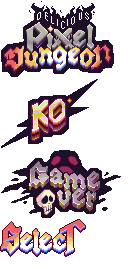
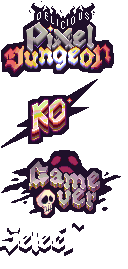
Selection screen UI update

Changed region(s): [[0.0, 0.803, 0.6875, 0.9517]]

diff --git a/core/src/main/java/com/watabou/pixeldungeon/scenes/StartScene.java b/core/src/main/java/com/watabou/pixeldungeon/scenes/StartScene.java
@@ -78,6 +78,7 @@ public class StartScene extends PixelScene {
 	private Group unlock;
 	public static HeroClass curClass;
 	public Image splash;
+	BitmapText heroNameText = PixelScene.createText(9 );
 
 	@Override
 	public void create() {
@@ -106,12 +107,12 @@ public class StartScene extends PixelScene {
 
 		Image title = BannerSprites.get(Type.SELECT_YOUR_HERO);
 		title.x = align((w - title.width()) / 2);
-		title.y = align(12);
+		title.y = align(4);
 		add(title);
 
 		splash = new Image();
-		splash.x = align((w - title.width()) / 2);
-		splash.y = align(title.y + title.height());
+		splash.x = align((w - 154) / 2);
+		splash.y = align(title.y + 24);
 		add(splash);
 
 		buttonX = left;
@@ -149,7 +150,7 @@ public class StartScene extends PixelScene {
 		float centralHeight = buttonY - title.y - title.height();
 		
 		HeroClass[] classes = {
-			HeroClass.HUNTRESS, HeroClass.ROGUE, HeroClass.MAGE, HeroClass.WARRIOR
+			HeroClass.WARRIOR, HeroClass.MAGE, HeroClass.ROGUE, HeroClass.HUNTRESS
 		};
 
 		for (HeroClass cl : classes) {
@@ -158,23 +159,18 @@ public class StartScene extends PixelScene {
 			add( shield );
 		}
 
-		if (PixelDungeon.landscape()) {
-			float shieldW = width / 4;
-			float shieldH = Math.min( centralHeight, shieldW );
-			top = title.y + title.height + (centralHeight - shieldH) / 2;
-
-			for (int i=0; i < classes.length; i++) {
-				ClassShield shield = shields.get( classes[i] );
-				shield.setRect( left + i * shieldW, top, shieldW, shieldH );
-			}
-			
-		} else {
-			for (int i=0; i < classes.length; i++) {
-				ClassShield shield = shields.get( classes[i] );
-				shield.setRect(0, ((buttonY - 20) - (i * 20)),
-					w, 16 );
-			}
+		float shieldW = width / 4;
+		float shieldH = Math.min( centralHeight, shieldW );
+		for (int i=0; i < classes.length; i++) {
+			ClassShield shield = shields.get(classes[i]);
+			shield.setRect(left + i * shieldW, (buttonY - 32),
+					shieldH, 18);
 		}
+
+		add(heroNameText);
+		heroNameText.hardlight( 0xFFFF00 );
+		heroNameText.x = (width - heroNameText.width()) / 2;
+		heroNameText.y = (buttonY - 48);
 
 		ChallengeButton challenge = new ChallengeButton();
 		challenge.setPos(w - challenge.width() - 4,4);
@@ -184,7 +180,6 @@ public class StartScene extends PixelScene {
 		add( unlock );
 		
 		if (!(huntressUnlocked = Badges.isUnlocked( Badges.Badge.BOSS_SLAIN_3 ))) {
-		
 			BitmapTextMultiline text = PixelScene.createMultiline( TXT_UNLOCK, 9 );
 			text.maxWidth = (int)width;
 			text.measure();
@@ -233,13 +228,14 @@ public class StartScene extends PixelScene {
 			add( new WndClass( cl ) );
 			return;
 		}
-		
+
 		if (curClass != null) {
 			shields.get( curClass ).highlight( false );
 		}
-		shields.get( curClass = cl ).highlight( true );
 
+		shields.get( curClass = cl ).highlight( true );
 		splash.texture(cl.splash());
+		heroNameText.text(cl.title().toUpperCase());
 		
 		if (cl != HeroClass.HUNTRESS || huntressUnlocked) {
 			unlock.visible = false;
@@ -334,11 +330,10 @@ public class StartScene extends PixelScene {
 		private static final int BASIC_HIGHLIGHTED	= 0xCACFC2;
 		private static final int MASTERY_NORMAL		= 0x666644;
 		private static final int MASTERY_HIGHLIGHTED= 0xFFFF88;
-		private static final int WIDTH	= 12;
-		private static final int HEIGHT	= 12;
+		private static final int WIDTH	= 20;
+		private static final int HEIGHT	= 21;
 		private final HeroClass cl;
 		private Image avatar;
-		private BitmapText name;
 		private Emitter emitter;
 		private float brightness;
 		private final int normal;
@@ -347,7 +342,7 @@ public class StartScene extends PixelScene {
 		public ClassShield( HeroClass cl ) {
 			super();
 			this.cl = cl;
-			avatar.frame( cl.ordinal() * WIDTH, 0, WIDTH, HEIGHT );
+			avatar.frame( (cl.ordinal()) * WIDTH, 0, WIDTH, HEIGHT );
 
 			if (Badges.isUnlocked( cl.masteryBadge() )) {
 				normal = MASTERY_NORMAL;
@@ -356,10 +351,6 @@ public class StartScene extends PixelScene {
 				normal = BASIC_NORMAL;
 				highlighted = BASIC_HIGHLIGHTED;
 			}
-
-			name.text( cl.name() );
-			name.measure();
-			name.hardlight( normal );
 			brightness = MIN_BRIGHTNESS;
 			updateBrightness();
 		}
@@ -369,9 +360,6 @@ public class StartScene extends PixelScene {
 			super.createChildren();
 			avatar = new Image( Assets.AVATARS );
 			add( avatar );
-
-			name = PixelScene.createText( 9 );
-			add( name );
 			emitter = new BitmaskEmitter( avatar );
 			add( emitter );
 		}
@@ -379,10 +367,8 @@ public class StartScene extends PixelScene {
 		@Override
 		protected void layout() {
 			super.layout();
-			avatar.x = align( x + (width - avatar.width() - name.width()) / 2 );
-			avatar.y = align( y + (height - avatar.height() - name.height()) / 2 );
-			name.x = avatar.x + avatar.width() + 2;
-			name.y = align( y + (height - name.height()) / 2 );
+			avatar.x = align( x + (width - avatar.width()) / 2 );
+			avatar.y = align(y);
 		}
 
 		@Override
@@ -408,10 +394,8 @@ public class StartScene extends PixelScene {
 		public void highlight( boolean value ) {
 			if (value) {
 				brightness = 1.0f;
-				name.hardlight( highlighted );
 			} else {
 				brightness = 0.999f;
-				name.hardlight( normal );
 			}
 
 			updateBrightness();

diff --git a/core/src/main/java/com/watabou/pixeldungeon/ui/Icons.java b/core/src/main/java/com/watabou/pixeldungeon/ui/Icons.java
@@ -135,10 +135,10 @@ public enum Icons {
 			icon.frame( icon.texture.uvRect( 98, 0, 114, 16 ) );
 			break;
 		case CHALLENGE_OFF:
-			icon.frame( icon.texture.uvRect( 78, 16, 102, 40 ) );
+			icon.frame( icon.texture.uvRect( 78, 16, 91, 28 ) );
 			break;
 		case CHALLENGE_ON:
-			icon.frame( icon.texture.uvRect( 102, 16, 126, 40 ) );
+			icon.frame( icon.texture.uvRect( 102, 16, 115, 28 ) );
 			break;
 		case RESUME:
 			icon.frame( icon.texture.uvRect( 114, 0, 126, 11 ) );
